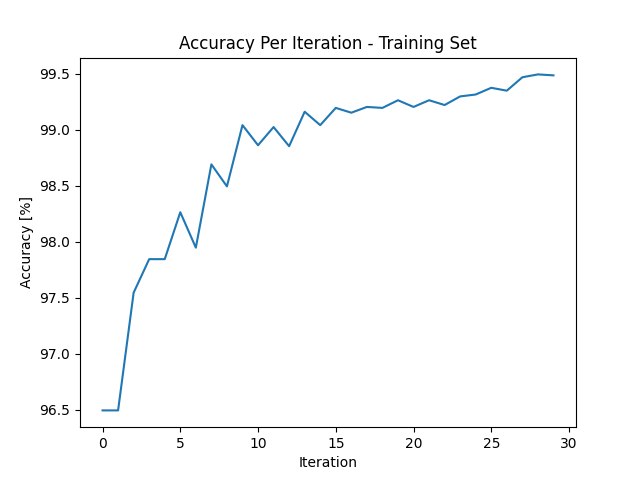
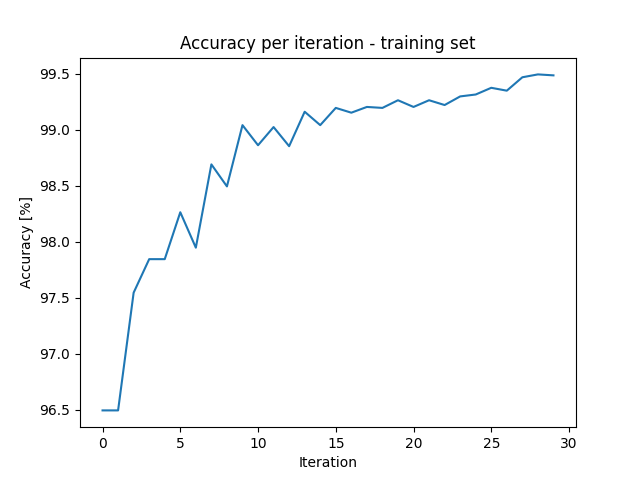
test

Changed region(s): [[0.2812, 0.0625, 0.5625, 0.125], [0.5938, 0.0625, 0.75, 0.125]]

diff --git a/Ex2.py b/Ex2.py
@@ -70,8 +70,8 @@ def plot_acc(acc, T, set_name):
     plt.plot(range(T), acc)
     plt.xlabel("Iteration")
     plt.ylabel("Accuracy [%]")
-    plt.title(f"Accuracy Per Iteration - {set_name} Set")
-    plt.savefig(f"Ex2_Accuracy_{set_name}")
+    plt.title(f"Accuracy per iteration - {set_name} set")
+    plt.savefig(f"Ex2_accuracy_{set_name}")
     plt.show()
 
 def main():
@@ -100,8 +100,8 @@ def main():
             err_rate_train = np.load(f)
         with open('err_rate_test.npy', 'rb') as f:
             err_rate_test = np.load(f)
-        plot_acc(100-err_rate_train, T, "Training")
-        plot_acc(100-err_rate_test, T, "Test")
+        plot_acc(100-err_rate_train, T, "training")
+        plot_acc(100-err_rate_test, T, "test")
 
 
 if __name__ == "__main__":
